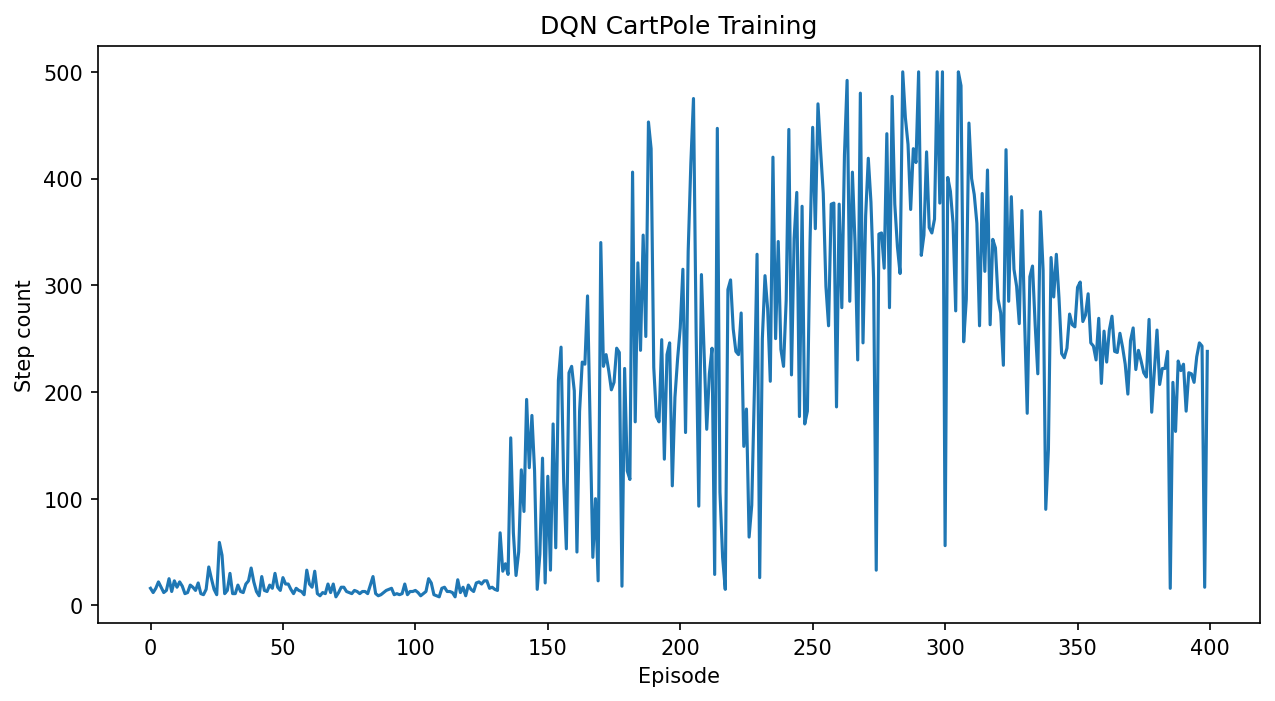
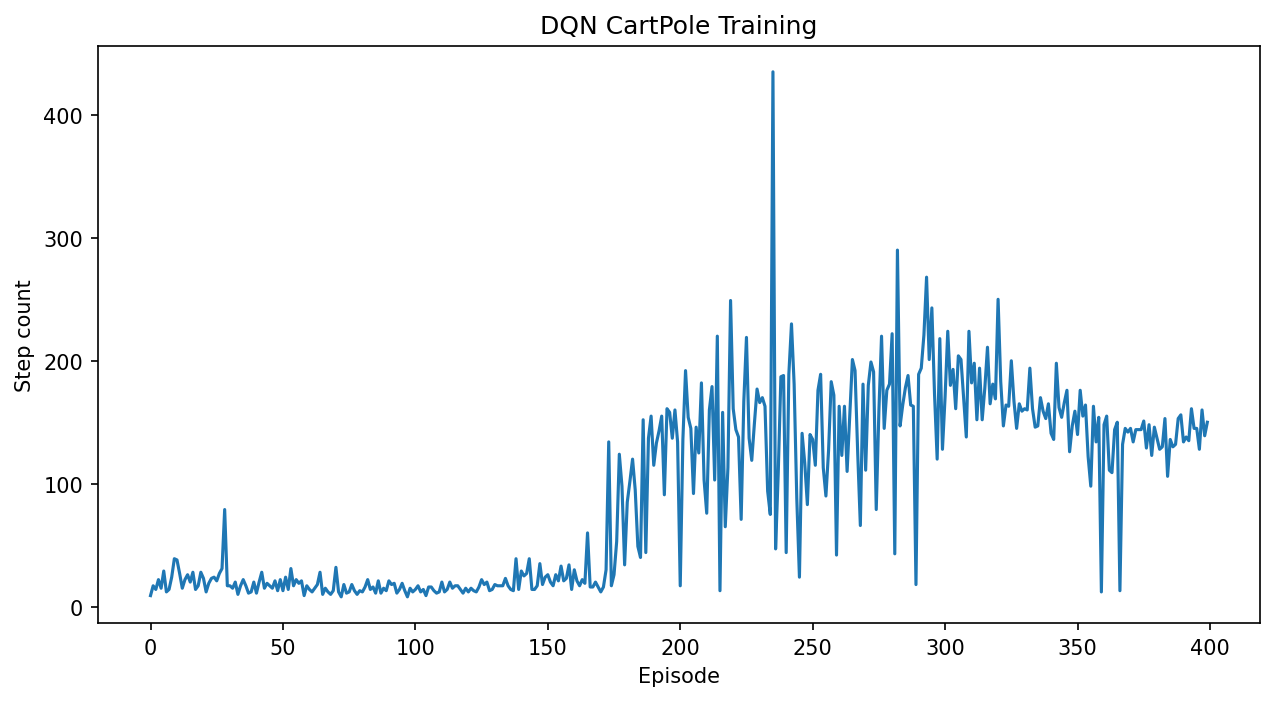
500

diff --git a/cartpole_dqn.py b/cartpole_dqn.py
@@ -1,3 +1,6 @@
+import os
+os.environ["SDL_AUDIODRIVER"] = "dummy"  # soundcard error log
+
 import gymnasium as gym
 from gymnasium.wrappers import RecordVideo
 import torch
@@ -7,6 +10,20 @@ import random
 import numpy as np
 from collections import deque
 import matplotlib.pyplot as plt
+import shutil
+import glob
+
+
+SEED = 42
+
+def set_seed(seed):
+    """Set seed for reproducibility."""
+    random.seed(seed)
+    np.random.seed(seed)
+    torch.manual_seed(seed)
+    torch.cuda.manual_seed_all(seed)
+    torch.backends.cudnn.deterministic = True
+    torch.backends.cudnn.benchmark = False
 
 
 class DQN(nn.Module):
@@ -92,6 +109,17 @@ def running_DQL(env, M, T, gamma=0.99, lr=1e-4, batch_size=128,
     epsilon = eps_start
     total_steps = 0
 
+    # --- Record ALL episodes, keep only the best video at the end ---
+    all_videos_folder = "all_videos"
+    if os.path.exists(all_videos_folder):
+        shutil.rmtree(all_videos_folder)
+
+    # Close the original env and recreate with recording
+    env.close()
+    env = gym.make('CartPole-v1', max_episode_steps=500, render_mode="rgb_array")
+    env = RecordVideo(env, video_folder=all_videos_folder,
+                      episode_trigger=lambda x: True, disable_logger=True)
+
     for episode in range(1, M + 1):
         # Reset environment and get initial state: s1 = {x1}, phi1 = phi(s1)
         state, _ = env.reset()
@@ -129,9 +157,10 @@ def running_DQL(env, M, T, gamma=0.99, lr=1e-4, batch_size=128,
                     targets = r_batch + gamma * max_next_q * (1.0 - d_batch)
 
                 # Perform gradient descent step on (y_j - Q(phi_j, a_j; theta))^2
-                loss = nn.functional.mse_loss(q_values, targets)
+                loss = nn.functional.smooth_l1_loss(q_values, targets)
                 optimizer.zero_grad()
                 loss.backward()
+                nn.utils.clip_grad_norm_(policy_net.parameters(), max_norm=100)
                 optimizer.step()
 
             if done:
@@ -141,10 +170,11 @@ def running_DQL(env, M, T, gamma=0.99, lr=1e-4, batch_size=128,
         duration = t
         episode_durations.append(duration)
 
-        # Track the best episode (longest survival)
+        # Track the best episode
         if duration > max_duration:
             max_duration = duration
             best_episode = episode
+            print(f"  >> New best! Episode {episode}: {duration} steps")
 
         # Gradually decay epsilon
         epsilon = max(eps_end, epsilon * eps_decay)
@@ -156,29 +186,35 @@ def running_DQL(env, M, T, gamma=0.99, lr=1e-4, batch_size=128,
         if episode % 20 == 0:
             avg = np.mean(episode_durations[-20:])
             print(f"Episode {episode}/{M} | Duration: {duration} | "
-                  f"Avg(20): {avg:.1f} | Max: {max_duration} | Eps: {epsilon:.4f}")
+                  f"Avg(20): {avg:.1f} | Max: {max_duration} (ep {best_episode}) | Eps: {epsilon:.4f}")
 
     env.close()
 
-    # --- Record video of the best-performing episode using the trained agent ---
-    print(f"\nTraining complete. Best episode: {best_episode} with {max_duration} steps.")
-    print("Recording video of trained agent...")
+    # --- Extract the best episode video ---
+    # RecordVideo names files as rl-video-episode-{index}.mp4 (0-indexed)
+    best_video_index = best_episode - 1
+    best_video_file = os.path.join(all_videos_folder, f"rl-video-episode-{best_video_index}.mp4")
 
-    video_env = gym.make('CartPole-v1', max_episode_steps=500, render_mode="rgb_array")
-    video_env = RecordVideo(video_env, video_folder="best_video",
-                            episode_trigger=lambda x: True, disable_logger=True)
+    final_folder = "best_video"
+    if os.path.exists(final_folder):
+        shutil.rmtree(final_folder)
+    os.makedirs(final_folder)
 
-    state, _ = video_env.reset()
-    state = torch.tensor(state, dtype=torch.float32)
-    for t in range(1, T + 1):
-        action = select_action(state, policy_net, 0.0, action_dim)  # greedy (no exploration)
-        next_state, reward, terminated, truncated, _ = video_env.step(action)
-        done = terminated or truncated
-        state = torch.tensor(next_state, dtype=torch.float32)
-        if done:
-            print(f"Video episode lasted {t} steps.")
-            break
-    video_env.close()
+    if os.path.exists(best_video_file):
+        shutil.copy2(best_video_file, os.path.join(final_folder, "best_episode.mp4"))
+        print(f"\nBest episode {best_episode} ({max_duration} steps) video saved to '{final_folder}/best_episode.mp4'")
+    else:
+        print(f"\nWarning: Could not find video file for episode {best_episode}")
+        # List available files for debugging
+        available = sorted(glob.glob(os.path.join(all_videos_folder, "*.mp4")))
+        print(f"Available videos: {len(available)} files")
+        if available:
+            # Copy the last available as fallback
+            shutil.copy2(available[-1], os.path.join(final_folder, "best_episode.mp4"))
+            print(f"Copied fallback: {available[-1]}")
+
+    # Clean up all recorded videos
+    shutil.rmtree(all_videos_folder)
 
     # --- Save performance graph ---
     plt.figure(figsize=(10, 5))
@@ -197,7 +233,9 @@ def main():
     # Create CartPole environment
     # Action space: env.action_space.n (2: push cart to the left, push cart to the right)
     # State space: env.observation_space.shape (4: cart pos, cart vel, pole angle, pole ang vel)
+    set_seed(SEED)
     env = gym.make('CartPole-v1', max_episode_steps=500)
+    env.reset(seed=SEED)
 
     M = 400   # number of episodes
     T = 500   # max time steps per episode
